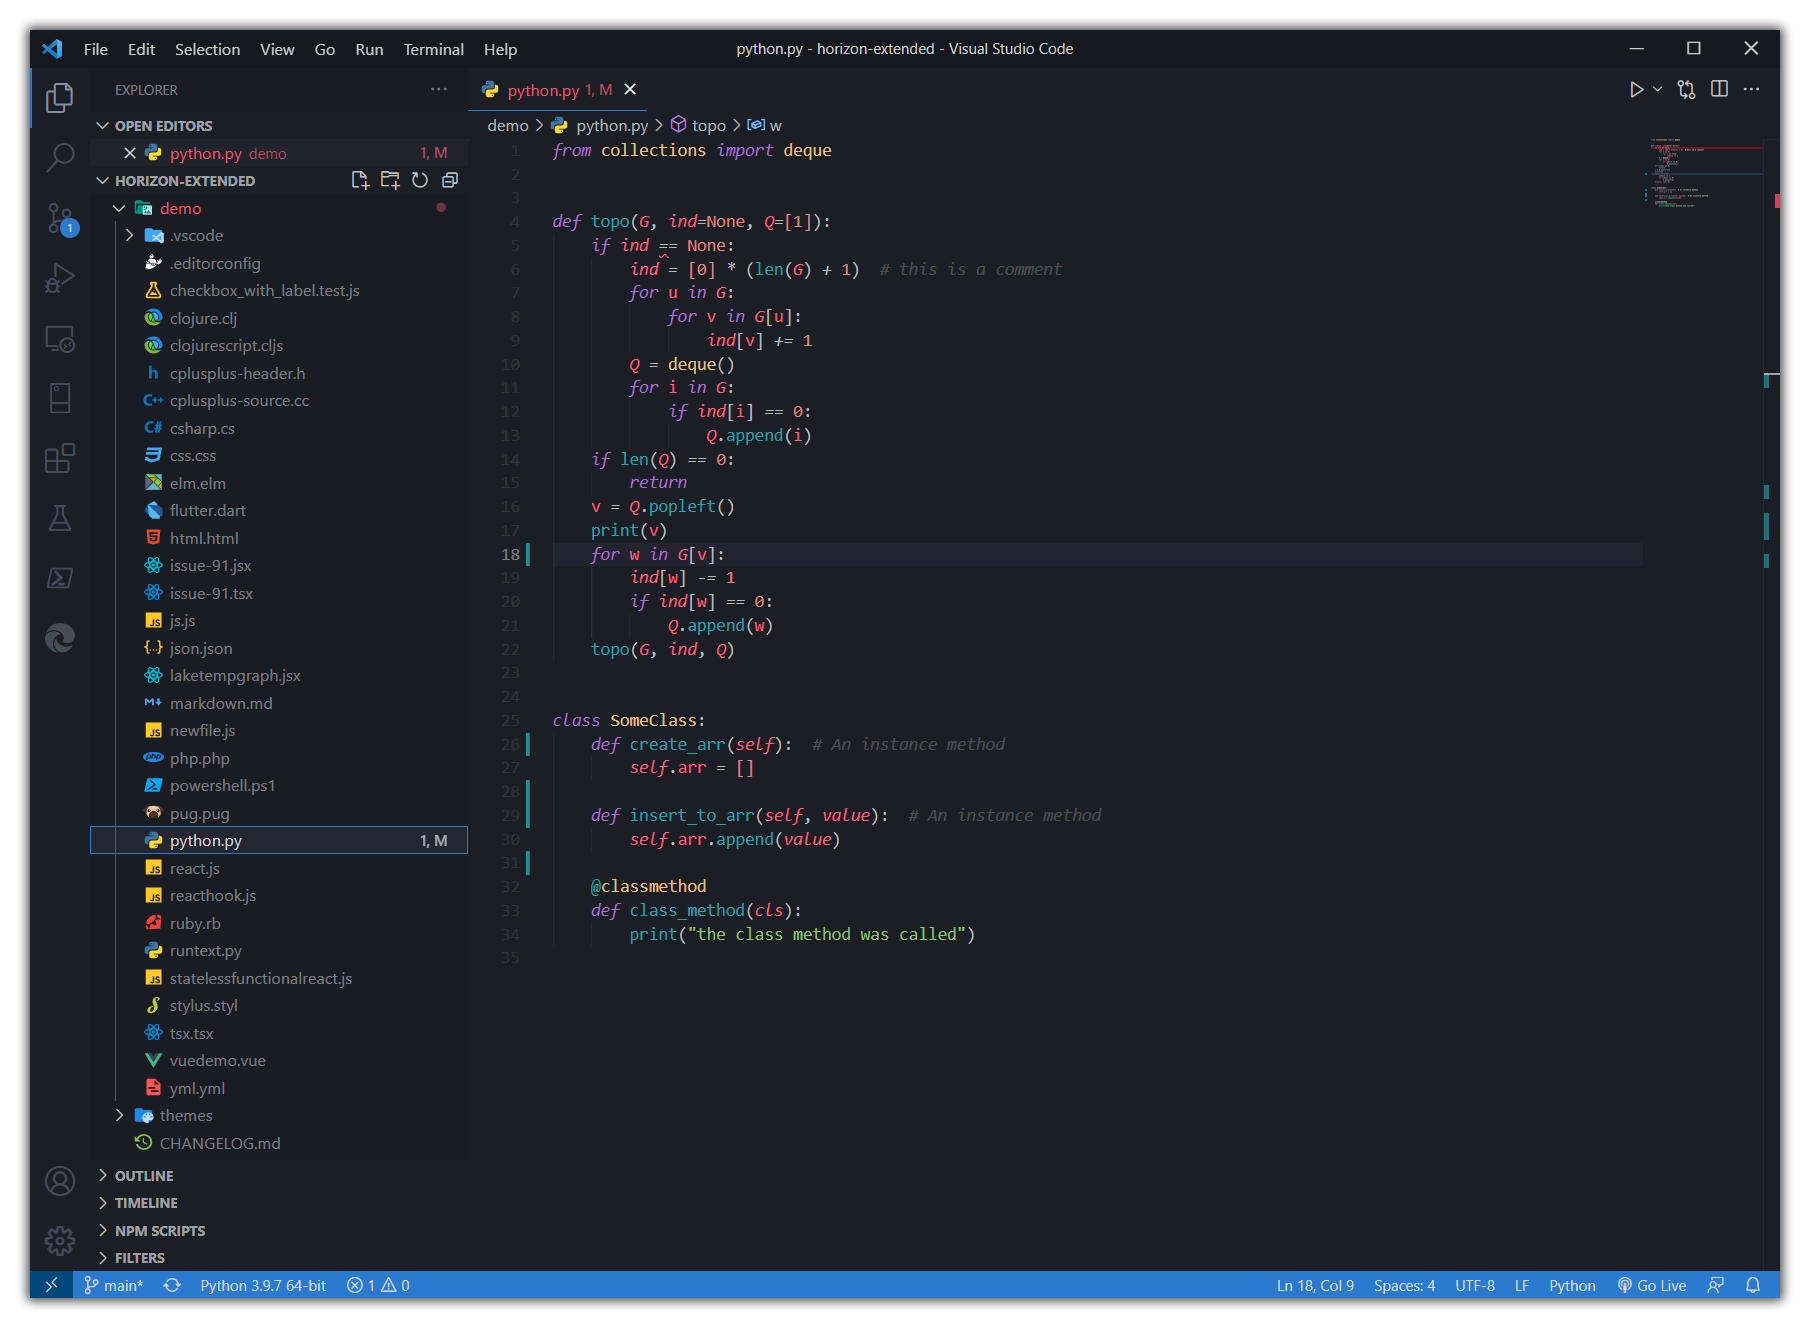
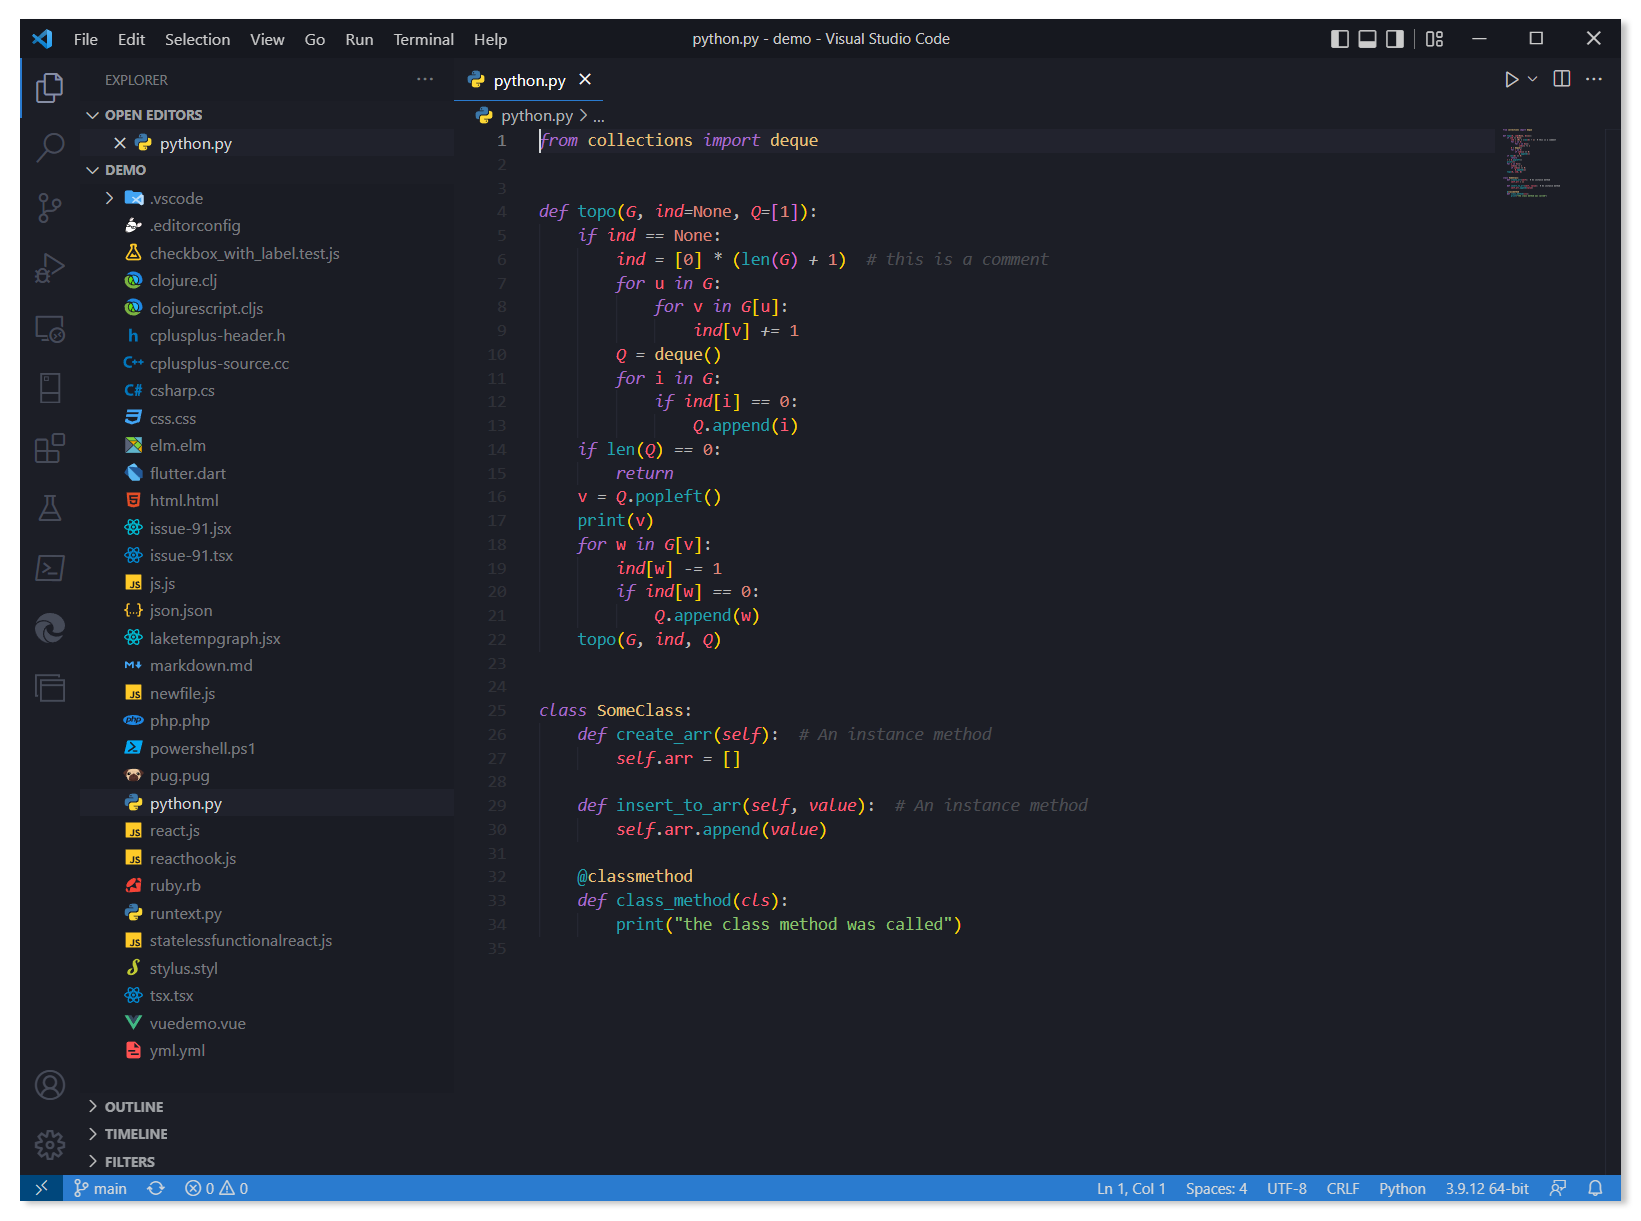
add light and modify dark screenshot

diff --git a/README.md b/README.md
@@ -11,8 +11,11 @@ My vision of a wonderful [Horizon Extended theme by Lance Wilhelm](https://marke
 
 ![darktheme start screenshot](https://raw.githubusercontent.com/Volodymyr-Storozhuk/horizon-extended-blue/main/darktheme_start.png)
 ![darktheme py screenshot](https://raw.githubusercontent.com/Volodymyr-Storozhuk/horizon-extended-blue/main/darktheme_py.png)
+![lighttheme start screenshot](https://raw.githubusercontent.com/Volodymyr-Storozhuk/horizon-extended-blue/main/lighttheme_start.png)
+![lighttheme py screenshot](https://raw.githubusercontent.com/Volodymyr-Storozhuk/horizon-extended-blue/main/lighttheme_py.png)
 
-I love the dark Horizon theme but love the blue interface elements. This is my vision of this wonderful theme with blue elements but with the semantic of the Horizon theme. 
+
+I love the dark and light Horizon theme but love the blue interface elements. This is my vision of this wonderful theme with blue elements but with the semantic of the Horizon theme. 
 
 Update [CHANGELOG.md](https://github.com/Volodymyr-Storozhuk/horizon-extended-blue/blob/main/CHANGELOG.md) + commit the changes.
 
